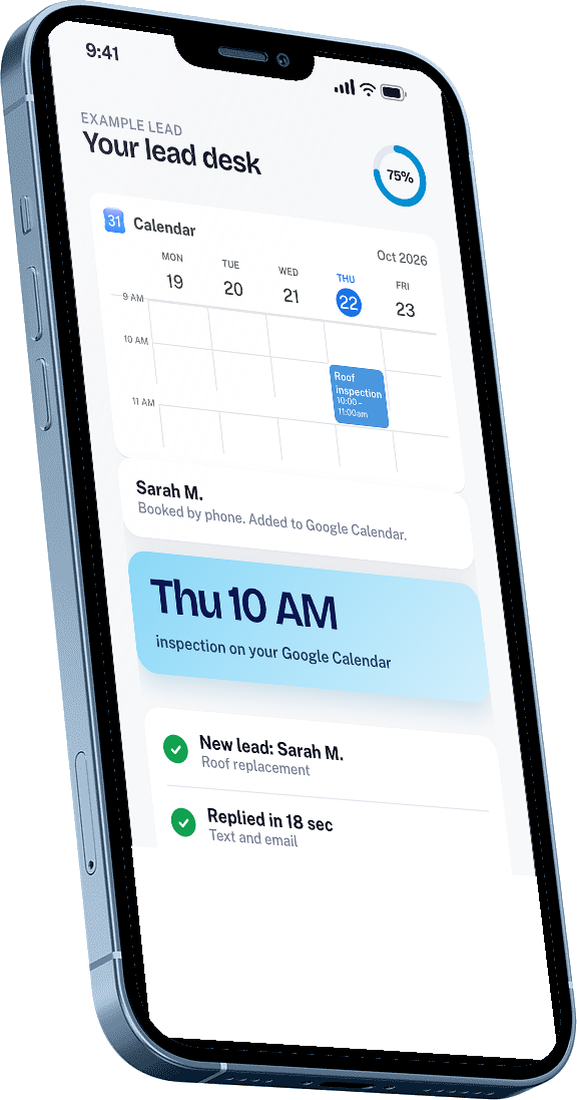
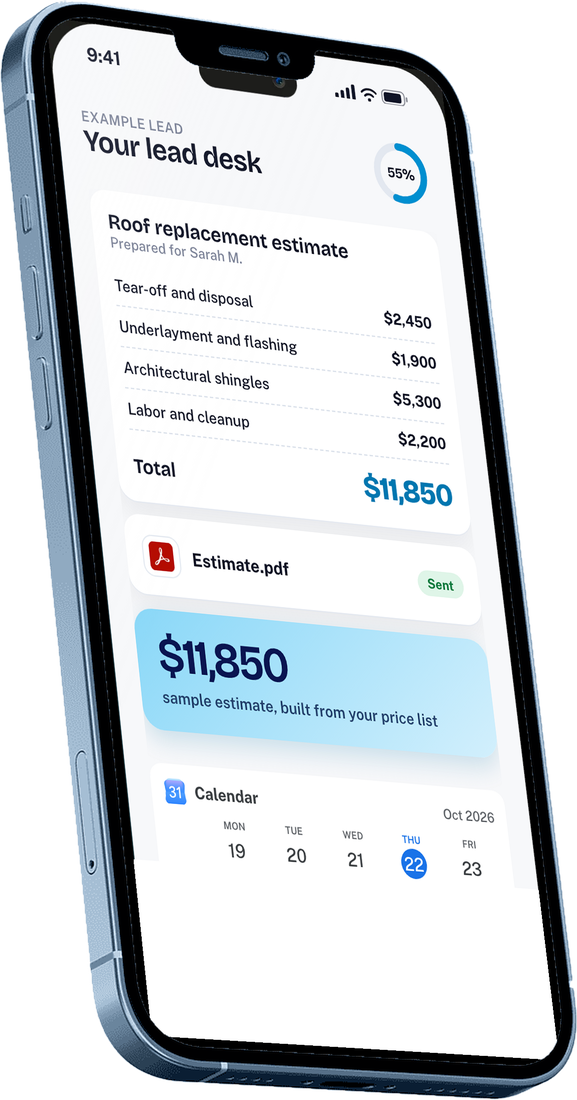
Tighter radii, white hero box interior, floating FAQ answers, cleaner phone cutouts, phone left in closing
- Buttons 10px radius, hero box 14px; hero box interior pure white (glow
  stays outside, moving gradient only on the outline)
- FAQ answers open over the cards below with a slow unfold and soft
  shadow (no layout shift); one open at a time
- Face-on phone: light outer rim removed and edges feathered; angled
  phone rebuilt at 2x with smooth edges and a fuller screen
- Closing section: phone on the left, text on the right

diff --git a/app/home.css b/app/home.css
@@ -18,6 +18,7 @@ a.rating:hover { color: var(--blue-deep); }
 @property --pill-angle { syntax: "<angle>"; inherits: false; initial-value: 0deg; }
 .pill { position: relative; isolation: isolate; display: inline-flex; align-items: center; gap: 22px; margin-top: 36px; padding: 10px 10px 10px 28px; border: 2px solid transparent; border-radius: var(--box-radius); background: linear-gradient(#fff, #fff) padding-box, conic-gradient(from var(--pill-angle), #008ccd, #8ad8f8, #e3f3fb, #0a62a6, #008ccd) border-box; box-shadow: 0 18px 44px rgba(0, 140, 205, 0.16); animation: pill-spin 5s linear infinite; }
 .pill::before { content: ""; position: absolute; inset: -3px; z-index: -1; border-radius: inherit; background: conic-gradient(from var(--pill-angle), #008ccd, #8ad8f8, #e3f3fb, #0a62a6, #008ccd); filter: blur(16px); opacity: 0.45; animation: pill-spin 5s linear infinite; }
+.pill::after { content: ""; position: absolute; inset: 0; z-index: -1; border-radius: calc(var(--box-radius) - 2px); background: #fff; }
 @keyframes pill-spin { to { --pill-angle: 360deg; } }
 .pill .note { font: 500 14px var(--body-font); color: var(--mute); }
 .pill .btn { height: 54px; padding: 0 26px; font-size: 16px; }
@@ -325,7 +326,8 @@ a.rv:hover { transform: translateY(-3px); box-shadow: 0 14px 30px rgba(0, 30, 80
 /* commonly asked questions: dropdown cards (3x2 founder questions, 4x2 more) */
 .qgrid { display: grid; grid-template-columns: repeat(3, minmax(0, 1fr)); gap: 12px; margin-top: 34px; align-items: start; }
 .qgrid.four { grid-template-columns: repeat(4, minmax(0, 1fr)); margin-top: 20px; }
-.qd { background: #fff; border-radius: 20px; transition: box-shadow 0.2s; }
+.qd { position: relative; background: #fff; border-radius: 20px; transition: box-shadow 0.3s, border-radius 0.2s; }
+.qd[open] { z-index: 5; border-radius: 20px 20px 0 0; }
 .qd:hover, .qd[open] { box-shadow: 0 12px 28px rgba(10, 21, 81, 0.08); }
 .qd summary { cursor: pointer; list-style: none; display: flex; justify-content: space-between; align-items: flex-start; gap: 14px; padding: 20px 20px 20px 22px; }
 .qd summary::-webkit-details-marker { display: none; }
@@ -333,10 +335,10 @@ a.rv:hover { transform: translateY(-3px); box-shadow: 0 14px 30px rgba(0, 30, 80
 .qgrid.four .qd summary h3 { font-size: 15.5px; }
 .qd summary i { flex: none; width: 28px; height: 28px; border-radius: 50%; background: var(--sheet); display: grid; place-items: center; font-style: normal; transition: transform 0.25s, background 0.2s; }
 .qd[open] summary i { transform: rotate(45deg); background: var(--tint); }
-.qd-body { padding: 0 22px 22px; }
+.qd-body { position: absolute; left: 0; right: 0; top: calc(100% - 1px); padding: 0 22px 22px; background: #fff; border-radius: 0 0 20px 20px; box-shadow: 0 22px 34px rgba(10, 21, 81, 0.16); clip-path: inset(0 -60px -60px -60px); }
 .qd-body p { font-size: 15px; line-height: 1.55; color: var(--slate); }
-.qd[open] .qd-body { animation: qd-in 0.35s ease; }
-@keyframes qd-in { from { opacity: 0; transform: translateY(-6px); } }
+.qd[open] .qd-body { animation: qd-in 0.55s cubic-bezier(0.2, 0.8, 0.2, 1); }
+@keyframes qd-in { from { opacity: 0; clip-path: inset(0 -60px 100% -60px); } to { opacity: 1; clip-path: inset(0 -60px -60px -60px); } }
 .qwatch { margin-top: 14px; display: inline-flex; align-items: center; gap: 6px; font: 700 14px var(--body-font); color: var(--blue-deep); }
 .qwatch svg { width: 14px; height: 14px; transition: transform 0.2s; }
 .qwatch:hover svg { transform: translateX(3px); }

diff --git a/app/design.css b/app/design.css
@@ -23,8 +23,8 @@
   --logo-blue: #008ccd;
   --logo-blue-dark: #0079b1;
   /* Corner radii for buttons and the hero box (rounded rectangles, not pills). */
-  --btn-radius: 16px;
-  --box-radius: 24px;
+  --btn-radius: 10px;
+  --box-radius: 14px;
   --display: var(--font-bricolage), "Public Sans", system-ui, sans-serif;
   --body-font: var(--font-public-sans), system-ui, -apple-system, "Segoe UI", sans-serif;
   --stage-grad: linear-gradient(158deg, #02305f 0%, #0a62a6 28%, #008fd0 58%, #8ad8f8 100%);
@@ -157,13 +157,13 @@ h3 {
 }
 .close .wrap { position: relative; z-index: 1; }
 /* Copy on the left; the angled phone rises from the bottom-right edge. */
-.close-grid { display: grid; grid-template-columns: minmax(0, 1.25fr) minmax(0, 0.75fr); gap: clamp(24px, 4vw, 56px); align-items: end; }
+.close-grid { display: grid; grid-template-columns: minmax(0, 0.75fr) minmax(0, 1.25fr); gap: clamp(24px, 4vw, 56px); align-items: end; }
 .close-copy { align-self: center; padding-bottom: clamp(72px, 9vw, 120px); }
 .close h2 { font-size: clamp(38px, 5vw, 70px); line-height: 0.98; color: #fff; }
 .close p { margin: 20px 0 0; font-size: 18px; max-width: 480px; color: rgba(255, 255, 255, 0.9); }
 .close .btns { display: flex; flex-wrap: wrap; gap: 10px; margin: 28px 0 14px; }
 .close .fine { font-size: 13px; color: rgba(255, 255, 255, 0.78); margin: 0; }
-.close-phone { align-self: end; justify-self: center; width: min(100%, 340px); margin-bottom: -150px; filter: drop-shadow(0 30px 50px rgba(0, 20, 60, 0.35)); }
+.close-phone { order: -1; align-self: end; justify-self: center; width: min(100%, 340px); margin-bottom: -150px; filter: drop-shadow(0 30px 50px rgba(0, 20, 60, 0.35)); }
 .close-phone img { display: block; width: 100%; height: auto; }
 
 /* footer */
@@ -184,6 +184,7 @@ h3 {
   .sheet { border-radius: 30px 30px 0 0; margin-top: -30px; }
   .close { border-radius: 14px 14px 0 0; margin-top: -14px; }
   .close-grid { grid-template-columns: 1fr; text-align: center; }
+  .close-phone { order: 0; }
   .close-copy { padding-bottom: 0; }
   .close p { margin-inline: auto; }
   .close .btns { justify-content: center; }

diff --git a/components/home/CommonQuestions.tsx b/components/home/CommonQuestions.tsx
@@ -8,8 +8,9 @@ import { ArrowRight, Plus } from "@/components/home/svg";
 
 /** One question as a dropdown card: the question shows, the answer reveals. */
 function QuestionCard({ question, answer, watchHref, duration }: { question: string; answer: string; watchHref?: string; duration?: string }) {
+  // Shared name: opening one closes the others, so only one answer floats at a time.
   return (
-    <details className="qd">
+    <details className="qd" name="faq-answer">
       <summary>
         <h3>{question}</h3>
         <i aria-hidden="true"><Plus /></i>
